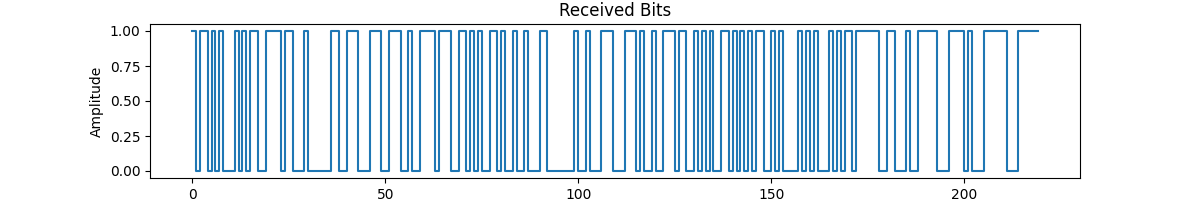
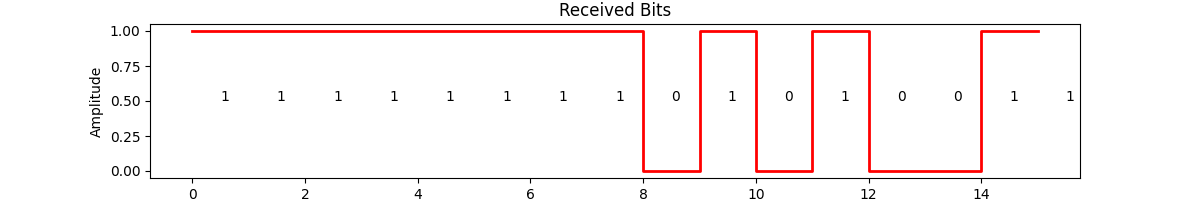
update plot dan diagram

diff --git a/Simulation/plot.py b/Simulation/plot.py
@@ -21,7 +21,11 @@ def get_base64_encoded_image(image_path):
 def get_plot_bitgenerate(bits):
     plt.figure(figsize=(12,2))
     # Plot untuk Signal Generator
-    plt.step(np.arange(0, len(bits)), bits)
+    plt.step(np.arange(0, len(bits)), bits,'r', linewidth = 2, where='post')
+    for tbit, bit in enumerate(bits):
+        plt.text(tbit + 0.5, 0.5, str(bit))
+    
+    #plt.ylim([-1,1.5])
     plt.title('Output Bit Generator')
     plt.xlabel('Sample')
     plt.ylabel('Amplitude')
@@ -61,7 +65,9 @@ def get_plot_channel_response(allCarriers,H_exact, n_subcarriers):
     plt.clf()
     return channel_response_img_base64
 
-def get_plot_constellation_map(const_mapp):
+def get_plot_constellation_map(const_mapp, mapping_table, bits_per_symbol):
+
+    
     
     x1 = np.arange(-3.5, 3.5, 0.1)
     x2 = np.zeros_like(x1)
@@ -76,6 +82,38 @@ def get_plot_constellation_map(const_mapp):
     plt.scatter(symbol_r, symbol_i)  # 实部 虚部 画星座图 a array 从0到n-1
     plt.plot(x1, x2, color='red')
     plt.plot(y1, y2, color='red')
+
+    if bits_per_symbol ==1: 
+                for b0 in [0, 1]:
+                    B = (b0)
+                    Q = mapping_table[B]
+                    plt.text(Q.real, Q.imag+0.2, "".join(str(x) for x in B), ha='center')  
+    
+    elif bits_per_symbol ==2:
+                for b1 in [0, 1]:
+                    for b0 in [0, 1]:
+                        B = (b1, b0)
+                        Q = mapping_table[B]
+                        plt.text(Q.real, Q.imag+0.2, "".join(str(x) for x in B), ha='center')\
+    
+    elif bits_per_symbol ==3:
+            for b2 in [0, 1]:
+                for b1 in [0, 1]:
+                    for b0 in [0, 1]:
+                        B = (b3, b2, b1, b0)
+                        Q = mapping_table[B]
+                        plt.text(Q.real, Q.imag+0.2, "".join(str(x) for x in B), ha='center')
+    
+    elif bits_per_symbol ==4:
+        for b3 in [0, 1]:
+            for b2 in [0, 1]:
+                for b1 in [0, 1]:
+                    for b0 in [0, 1]:
+                        B = (b3, b2, b1, b0)
+                        Q = mapping_table[B]
+                        plt.text(Q.real, Q.imag+0.2, "".join(str(x) for x in B), ha='center')
+    
+
     plt.xlabel('real')
     plt.ylabel('imag')
     plt.title('Constelation Mapp')
@@ -157,7 +195,9 @@ def get_plot_equalizer_const(received_const, hard_decision):
 
 def get_plot_received_bits(bits_serial):
     plt.figure(figsize=(12,2))
-    plt.step(np.arange(0, len(bits_serial)), bits_serial)
+    plt.step(np.arange(0, len(bits_serial)), bits_serial,'r', linewidth = 2, where='post')
+    for tbit, bit in enumerate(bits_serial):
+        plt.text(tbit + 0.5, 0.5, str(bit))
     plt.title('Received Bits')
     plt.xlabel('Sample')
     plt.ylabel('Amplitude')

diff --git a/Simulation/views.py b/Simulation/views.py
@@ -97,8 +97,8 @@ def ofdmTransceiver(request):
                     bits_paralel = m.serial_to_paralel(bits, dataCarriers, bits_per_symbol)
 
                 elif param.startswith('digital-modulation'):
-                    const_mapp, const_demapp  = m.Mapping(bits_paralel, bits_per_symbol)
-                    constellation_map_img_base64 = p.get_plot_constellation_map(const_mapp)
+                    const_mapp, const_demapp, mapping_table  = m.Mapping(bits_paralel, bits_per_symbol)
+                    constellation_map_img_base64 = p.get_plot_constellation_map(const_mapp, mapping_table,bits_per_symbol)
 
                 elif param.startswith('ifft'):
                     ofdm_data = m.OFDM_symbol(n_subcarriers, const_mapp, pilotCarriers, pilot_value, dataCarriers)

diff --git a/Simulation/module.py b/Simulation/module.py
@@ -40,7 +40,7 @@ def inputData(data):
 """
 
 
-""" Modul Channel Coding """
+""" Modul Configurasi Subcarrier """
 # Fungsi konfigurasi subcarrier
 def subcarrier_config(n_subcarriers, n_pilot, bits_per_symbol):
     allCarriers = np.arange(n_subcarriers)
@@ -112,7 +112,7 @@ def Mapping(bits, bits_per_symbol ):
         mapping_table = mapping_16qam
     constellation_mapp = np.array([mapping_table[tuple(b)] for b in bits])
     constellation_demapp = {v : k for k, v in mapping_table.items()}
-    return constellation_mapp, constellation_demapp
+    return constellation_mapp, constellation_demapp, mapping_table
 
 # OFDM Symbol generate
 def OFDM_symbol(n_subcarriers, QAM_payload, pilotCarriers, pilotValue, dataCarriers):
